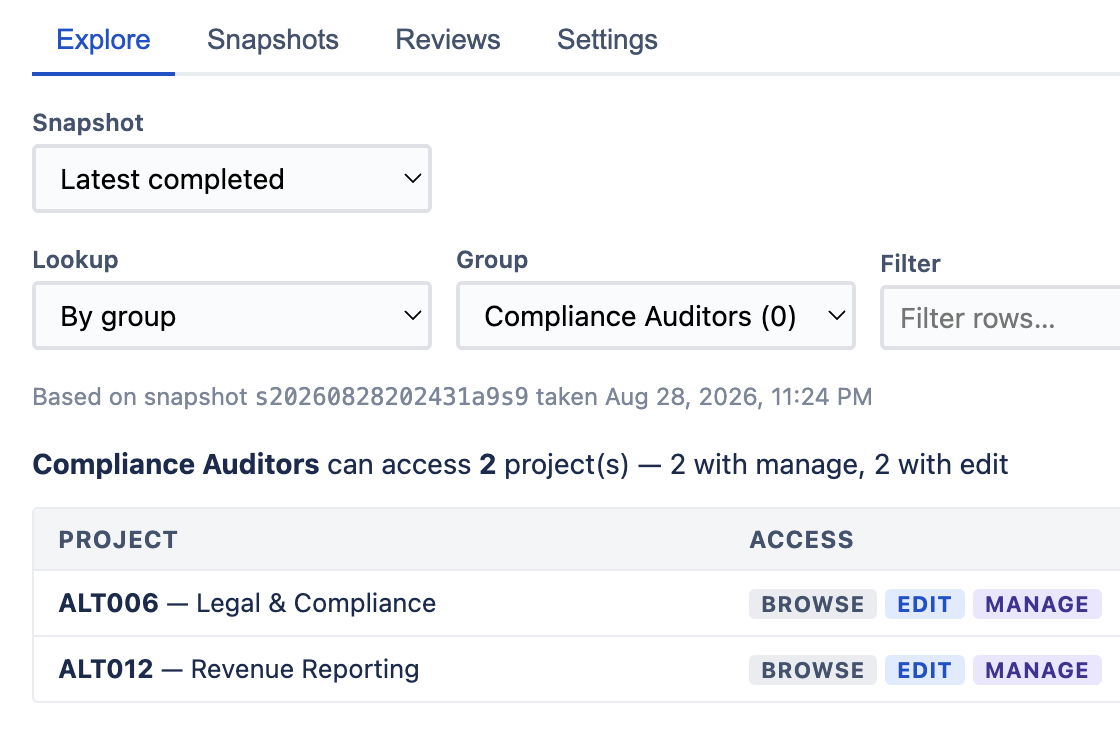
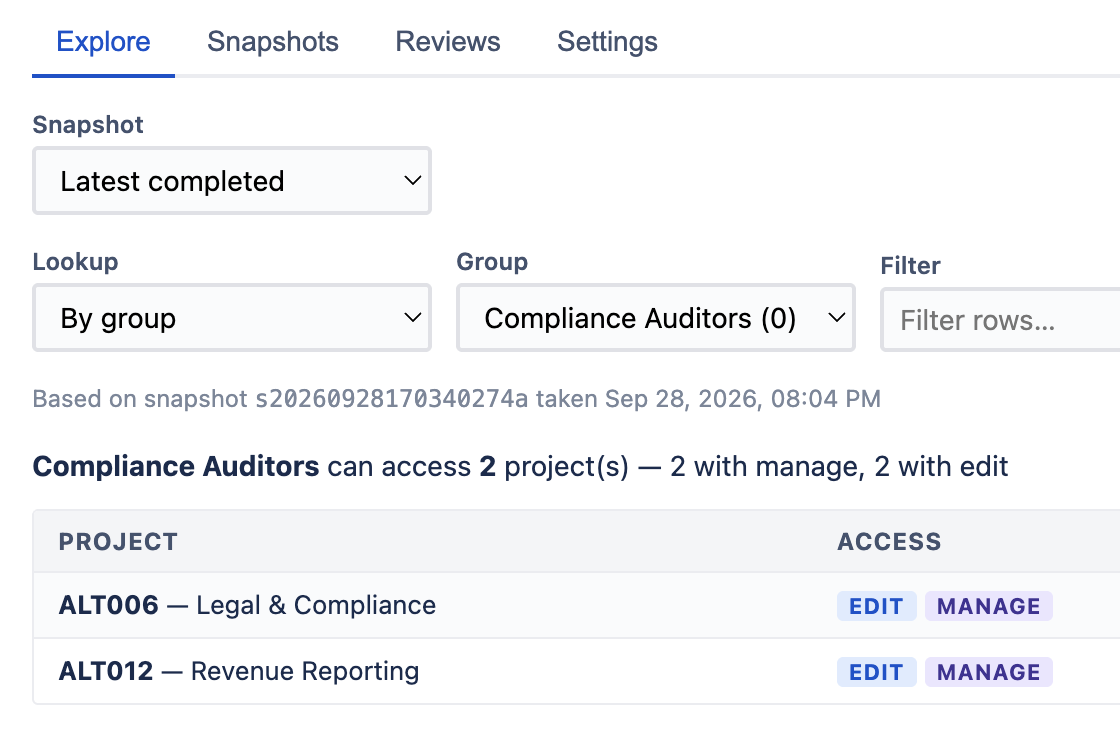
AccessLens: the 3.1.0 demo (1:06), and stills without the wrong BROWSE chip
New cut Bg9Votrp3WY replaces Gc74DICFk1c. The old one showed a BROWSE chip
the Administrators role never held, opened the compare form without
comparing, and filmed the review list under the captions about working a
review and signing it off. The new one looks up the contractor group,
compares the two August snapshots, works a review on camera and signs it
off.

The demo's poster (also og:image) and the app card's source are 3.1.0
production stills. Both old ones carried the same wrong chip, and the poster
a trial badge. Demo lengths on the cards follow from the VideoObject
duration (tools/make-chrome).

diff --git a/accesslens/index.html b/accesslens/index.html
@@ -58,9 +58,9 @@
           "name": "AccessLens for Jira — prove who can access what",
           "description": "Answer 'which projects can this group access?' in Jira Cloud. Point-in-time permission snapshots, diffs between quarters, and access reviews with signed-off evidence.",
           "thumbnailUrl": "https://keelapps.app/assets/screenshots/accesslens-reverse-lookup.png",
-          "uploadDate": "2026-09-07T14:53:33-07:00",
-          "duration": "PT1M3S",
-          "embedUrl": "https://www.youtube-nocookie.com/embed/Gc74DICFk1c"
+          "uploadDate": "2026-09-28T12:09:00-07:00",
+          "duration": "PT1M6S",
+          "embedUrl": "https://www.youtube-nocookie.com/embed/Bg9Votrp3WY"
         }
       }
     </script>
@@ -127,7 +127,7 @@
               Atlassian — <a href="https://marketplace.atlassian.com/apps/4182244448/accesslens-for-jira?tab=pricing">see pricing on the Marketplace</a>.
             </p>
             <p class="intro__note">No egress. Your permission data never leaves Atlassian.</p>
-            <a class="intro__demo" href="#demo"><svg viewBox="0 0 10 10" aria-hidden="true"><path d="M2 1.2 8.6 5 2 8.8Z" fill="currentColor" /></svg>Watch the 1:03 demo</a>
+            <a class="intro__demo" href="#demo"><svg viewBox="0 0 10 10" aria-hidden="true"><path d="M2 1.2 8.6 5 2 8.8Z" fill="currentColor" /></svg>Watch the 1:06 demo</a>
           </div>
         </div>
         <dl class="facts">
@@ -141,8 +141,8 @@
       <figure class="showcase" id="demo">
         <iframe
           class="showcase__player"
-          src="https://www.youtube-nocookie.com/embed/Gc74DICFk1c"
-          srcdoc="<style>*{margin:0;padding:0}html,body{height:100%;overflow:hidden;background:#0F2536}a{display:block;height:100%;position:relative}img{display:block;width:100%;height:100%;object-fit:cover}span{position:absolute;inset:0;margin:auto;width:5rem;height:5rem;border-radius:50%;background:rgba(15,37,54,.86);color:#F4EFE6;display:grid;place-items:center;font:2rem/1 sans-serif}a:hover span{background:rgba(15,37,54,1)}</style><a href='https://www.youtube-nocookie.com/embed/Gc74DICFk1c?autoplay=1' aria-label='Play the AccessLens product demo'><img src='/assets/screenshots/accesslens-reverse-lookup.png' alt=''><span>&#9654;</span></a>"
+          src="https://www.youtube-nocookie.com/embed/Bg9Votrp3WY"
+          srcdoc="<style>*{margin:0;padding:0}html,body{height:100%;overflow:hidden;background:#0F2536}a{display:block;height:100%;position:relative}img{display:block;width:100%;height:100%;object-fit:cover}span{position:absolute;inset:0;margin:auto;width:5rem;height:5rem;border-radius:50%;background:rgba(15,37,54,.86);color:#F4EFE6;display:grid;place-items:center;font:2rem/1 sans-serif}a:hover span{background:rgba(15,37,54,1)}</style><a href='https://www.youtube-nocookie.com/embed/Bg9Votrp3WY?autoplay=1' aria-label='Play the AccessLens product demo'><img src='/assets/screenshots/accesslens-reverse-lookup.png' alt=''><span>&#9654;</span></a>"
           width="1840"
           height="900"
           title="AccessLens for Jira — who can access what, and sign it off (product demo)"
@@ -153,7 +153,7 @@
         ></iframe>
         <figcaption>
           Pick a group and get the flattened answer: which projects it can reach, at what level, and how the access is routed. Roles and membership are expanded for you.
-          <a href="https://www.youtube.com/watch?v=Gc74DICFk1c">Watch on YouTube</a>.
+          <a href="https://www.youtube.com/watch?v=Bg9Votrp3WY">Watch on YouTube</a>.
         </figcaption>
       </figure>
 

diff --git a/index.html b/index.html
@@ -136,7 +136,7 @@
             <p class="app-card__name">AccessLens for Jira</p>
             <p class="app-card__links">
               <a href="/accesslens/">Product page</a>
-              <a href="/accesslens/#demo"><svg viewBox="0 0 10 10" aria-hidden="true"><path d="M2 1.2 8.6 5 2 8.8Z" fill="currentColor" /></svg>Demo 1:03</a>
+              <a href="/accesslens/#demo"><svg viewBox="0 0 10 10" aria-hidden="true"><path d="M2 1.2 8.6 5 2 8.8Z" fill="currentColor" /></svg>Demo 1:06</a>
               <a href="/accesslens/docs/">Docs</a>
             </p>
           </li>

diff --git a/recur/index.html b/recur/index.html
@@ -361,7 +361,7 @@
             <p class="app-card__name">AccessLens for Jira</p>
             <p class="app-card__links">
               <a href="/accesslens/">Product page</a>
-              <a href="/accesslens/#demo"><svg viewBox="0 0 10 10" aria-hidden="true"><path d="M2 1.2 8.6 5 2 8.8Z" fill="currentColor" /></svg>Demo 1:03</a>
+              <a href="/accesslens/#demo"><svg viewBox="0 0 10 10" aria-hidden="true"><path d="M2 1.2 8.6 5 2 8.8Z" fill="currentColor" /></svg>Demo 1:06</a>
               <a href="/accesslens/docs/">Docs</a>
             </p>
           </li>

diff --git a/satchel/index.html b/satchel/index.html
@@ -407,7 +407,7 @@
             <p class="app-card__name">AccessLens for Jira</p>
             <p class="app-card__links">
               <a href="/accesslens/">Product page</a>
-              <a href="/accesslens/#demo"><svg viewBox="0 0 10 10" aria-hidden="true"><path d="M2 1.2 8.6 5 2 8.8Z" fill="currentColor" /></svg>Demo 1:03</a>
+              <a href="/accesslens/#demo"><svg viewBox="0 0 10 10" aria-hidden="true"><path d="M2 1.2 8.6 5 2 8.8Z" fill="currentColor" /></svg>Demo 1:06</a>
               <a href="/accesslens/docs/">Docs</a>
             </p>
           </li>
